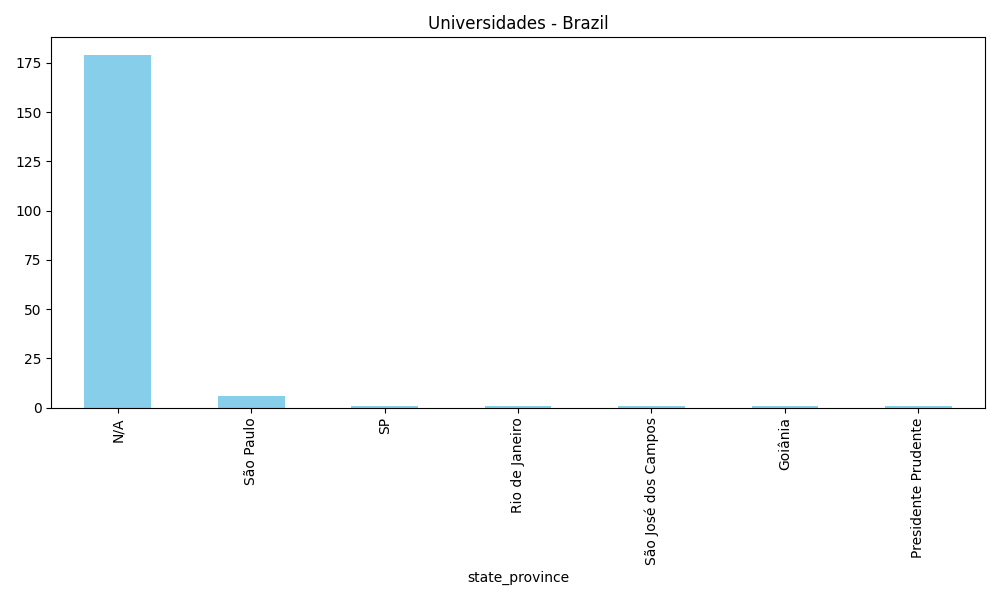
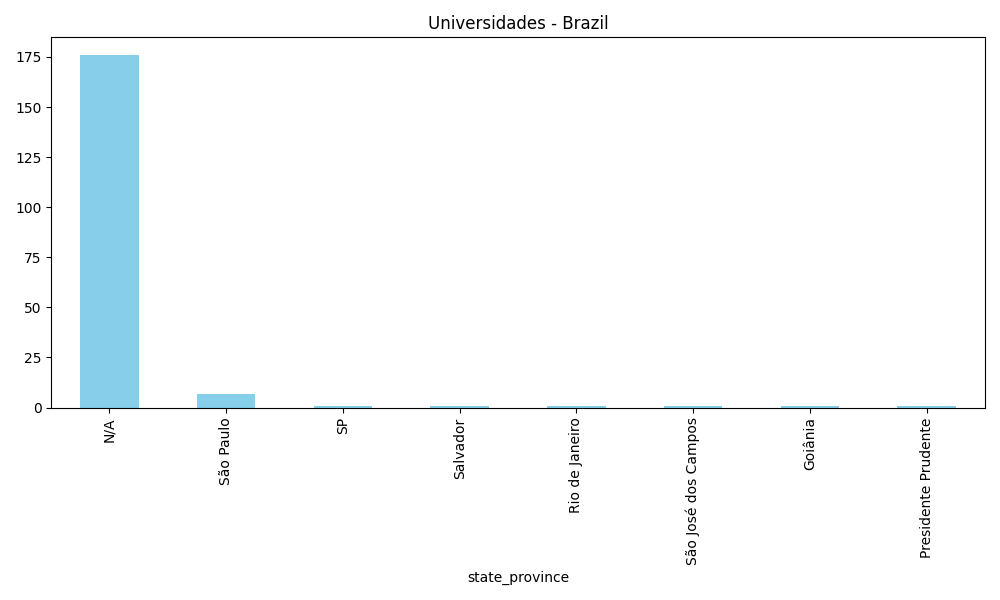
feat: implementa orquestracao do pipeline com Prefect (Aula 6)

diff --git a/orchestrate_prefect.py b/orchestrate_prefect.py
@@ -1,0 +1,73 @@
+from prefect import flow, task, get_run_logger
+from dotenv import load_dotenv
+from pipeline import UniversityETL
+
+load_dotenv()
+
+@task(retries=3, retry_delay_seconds=10)
+def extract_data(country: str) -> UniversityETL:
+    logger = get_run_logger()
+    logger.info(f"Iniciando extração de dados para {country}")
+    etl = UniversityETL(country)
+    etl.extract()
+    if etl.data is not None:
+        logger.info(f"Registros extraídos brutos: {len(etl.data)}")
+    return etl
+
+@task
+def transform_data(etl: UniversityETL) -> UniversityETL:
+    logger = get_run_logger()
+    logger.info("Iniciando transformação de dados")
+    etl.transform()
+    if etl.data is not None:
+        logger.info(f"Registros após transformação: {len(etl.data)}")
+    return etl
+
+@task
+def load_data_sqlite(etl: UniversityETL) -> UniversityETL:
+    logger = get_run_logger()
+    logger.info("Iniciando carga no SQLite local")
+    etl.load_sqlite()
+    return etl
+
+@task
+def load_data_mongo(etl: UniversityETL) -> UniversityETL:
+    logger = get_run_logger()
+    logger.info("Iniciando carga no MongoDB Atlas")
+    etl.load_mongo()
+    return etl
+
+@task
+def analyze_data(etl: UniversityETL):
+    logger = get_run_logger()
+    logger.info("Gerando análise e dashboard")
+    etl.analyze()
+
+@flow(name="ETL Universities Prefect", log_prints=True)
+def etl_universities_flow(country: str = "Brazil"):
+    logger = get_run_logger()
+    logger.info(f"=== Iniciando Pipeline ETL para: {country} ===")
+    
+    etl_extracted = extract_data(country)
+    etl_transformed = transform_data(etl_extracted)
+    etl_sqlite = load_data_sqlite(etl_transformed)
+    etl_mongo = load_data_mongo(etl_sqlite)
+    analyze_data(etl_mongo)
+    
+    logger.info("=== Pipeline concluído com sucesso! ===")
+
+if __name__ == "__main__":
+    import sys
+    
+    if len(sys.argv) > 1 and sys.argv[1] == "serve":
+        print("Criando agendamento (Deployment) para rodar todos os dias às 8h...")
+        etl_universities_flow.serve(
+            name="extracao-diaria",
+            cron="0 8 * * *",
+            tags=["projeto-integrador", "diario", "etl"],
+            description="Pipeline de ETL agendado para rodar diariamente às 08:00."
+        )
+    else:
+        pais = sys.argv[1] if len(sys.argv) > 1 else "Brazil"
+        etl_universities_flow(pais)
+
